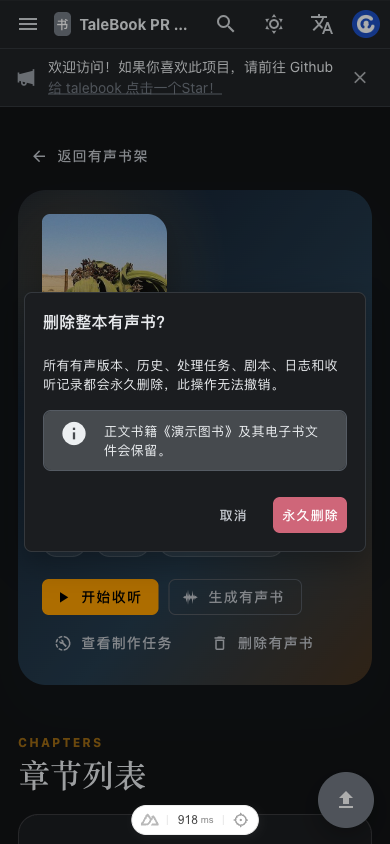
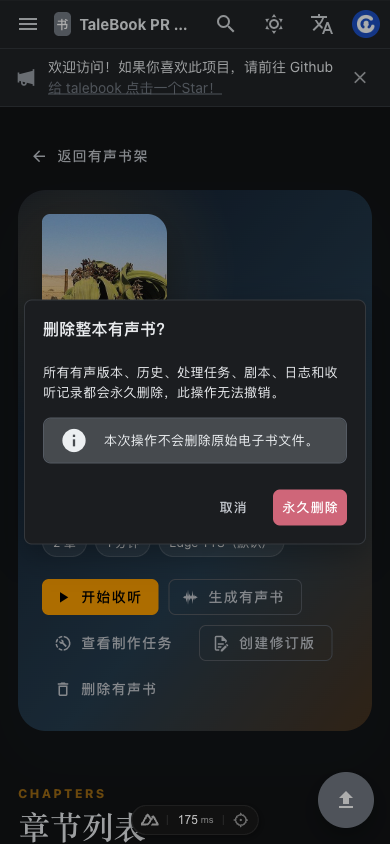
fix: 调整有声书删除提示文案

diff --git a/app/test/e2e/audiobooks.spec.ts b/app/test/e2e/audiobooks.spec.ts
@@ -110,7 +110,7 @@ test.describe('Audiobook production and playback', () => {
         await page.getByTestId('delete-audiobook').click();
         const dialog = page.getByTestId('delete-audiobook-dialog');
         await expect(dialog).toContainText('所有有声版本、历史、处理任务、剧本、日志和收听记录都会永久删除');
-        await expect(dialog).toContainText('正文书籍《百年孤独》及其电子书文件会保留');
+        await expect(dialog).toContainText('本次操作不会删除原始电子书文件');
         await dialog.getByRole('button', { name: '取消' }).click();
         await expect(dialog).toHaveCount(0);
         await expect(page.locator('.chapter-list').getByText('第一章 雾中的来客')).toBeVisible();

diff --git a/app/pages/book/[bid]/audios.vue b/app/pages/book/[bid]/audios.vue
@@ -306,7 +306,7 @@
                         density="compact"
                         class="mt-4"
                     >
-                        {{ t('audiobook.deleteAudiobookBookPreserved', { title: detail?.book?.title || '' }) }}
+                        {{ t('audiobook.deleteAudiobookBookPreserved') }}
                     </v-alert>
                 </v-card-text>
                 <v-card-actions>
